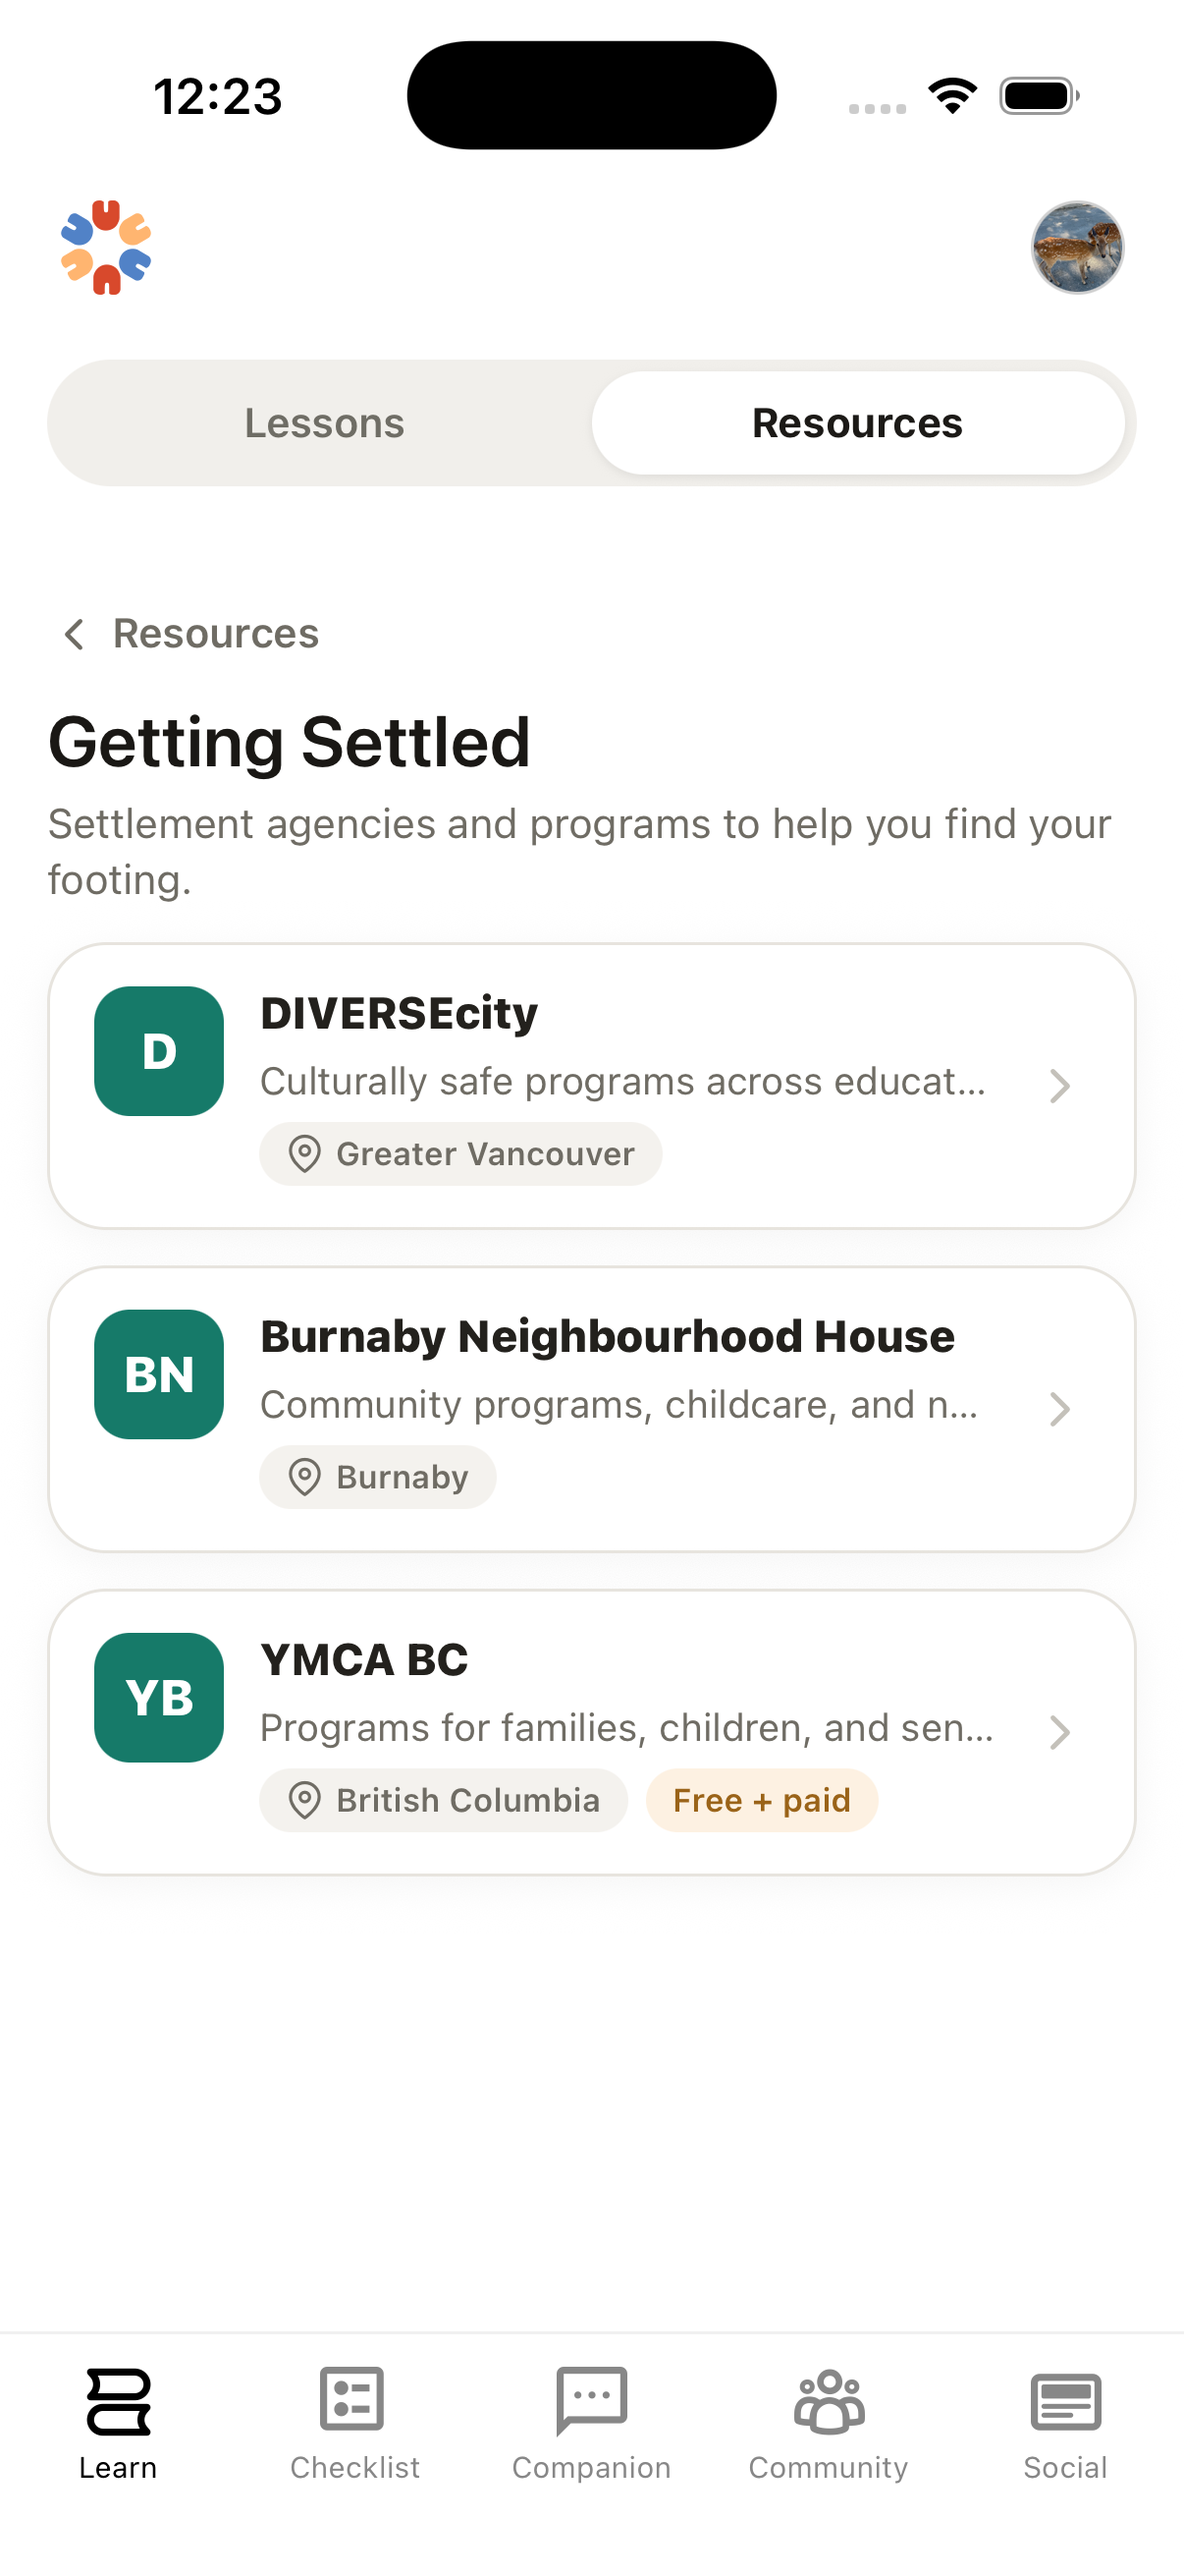
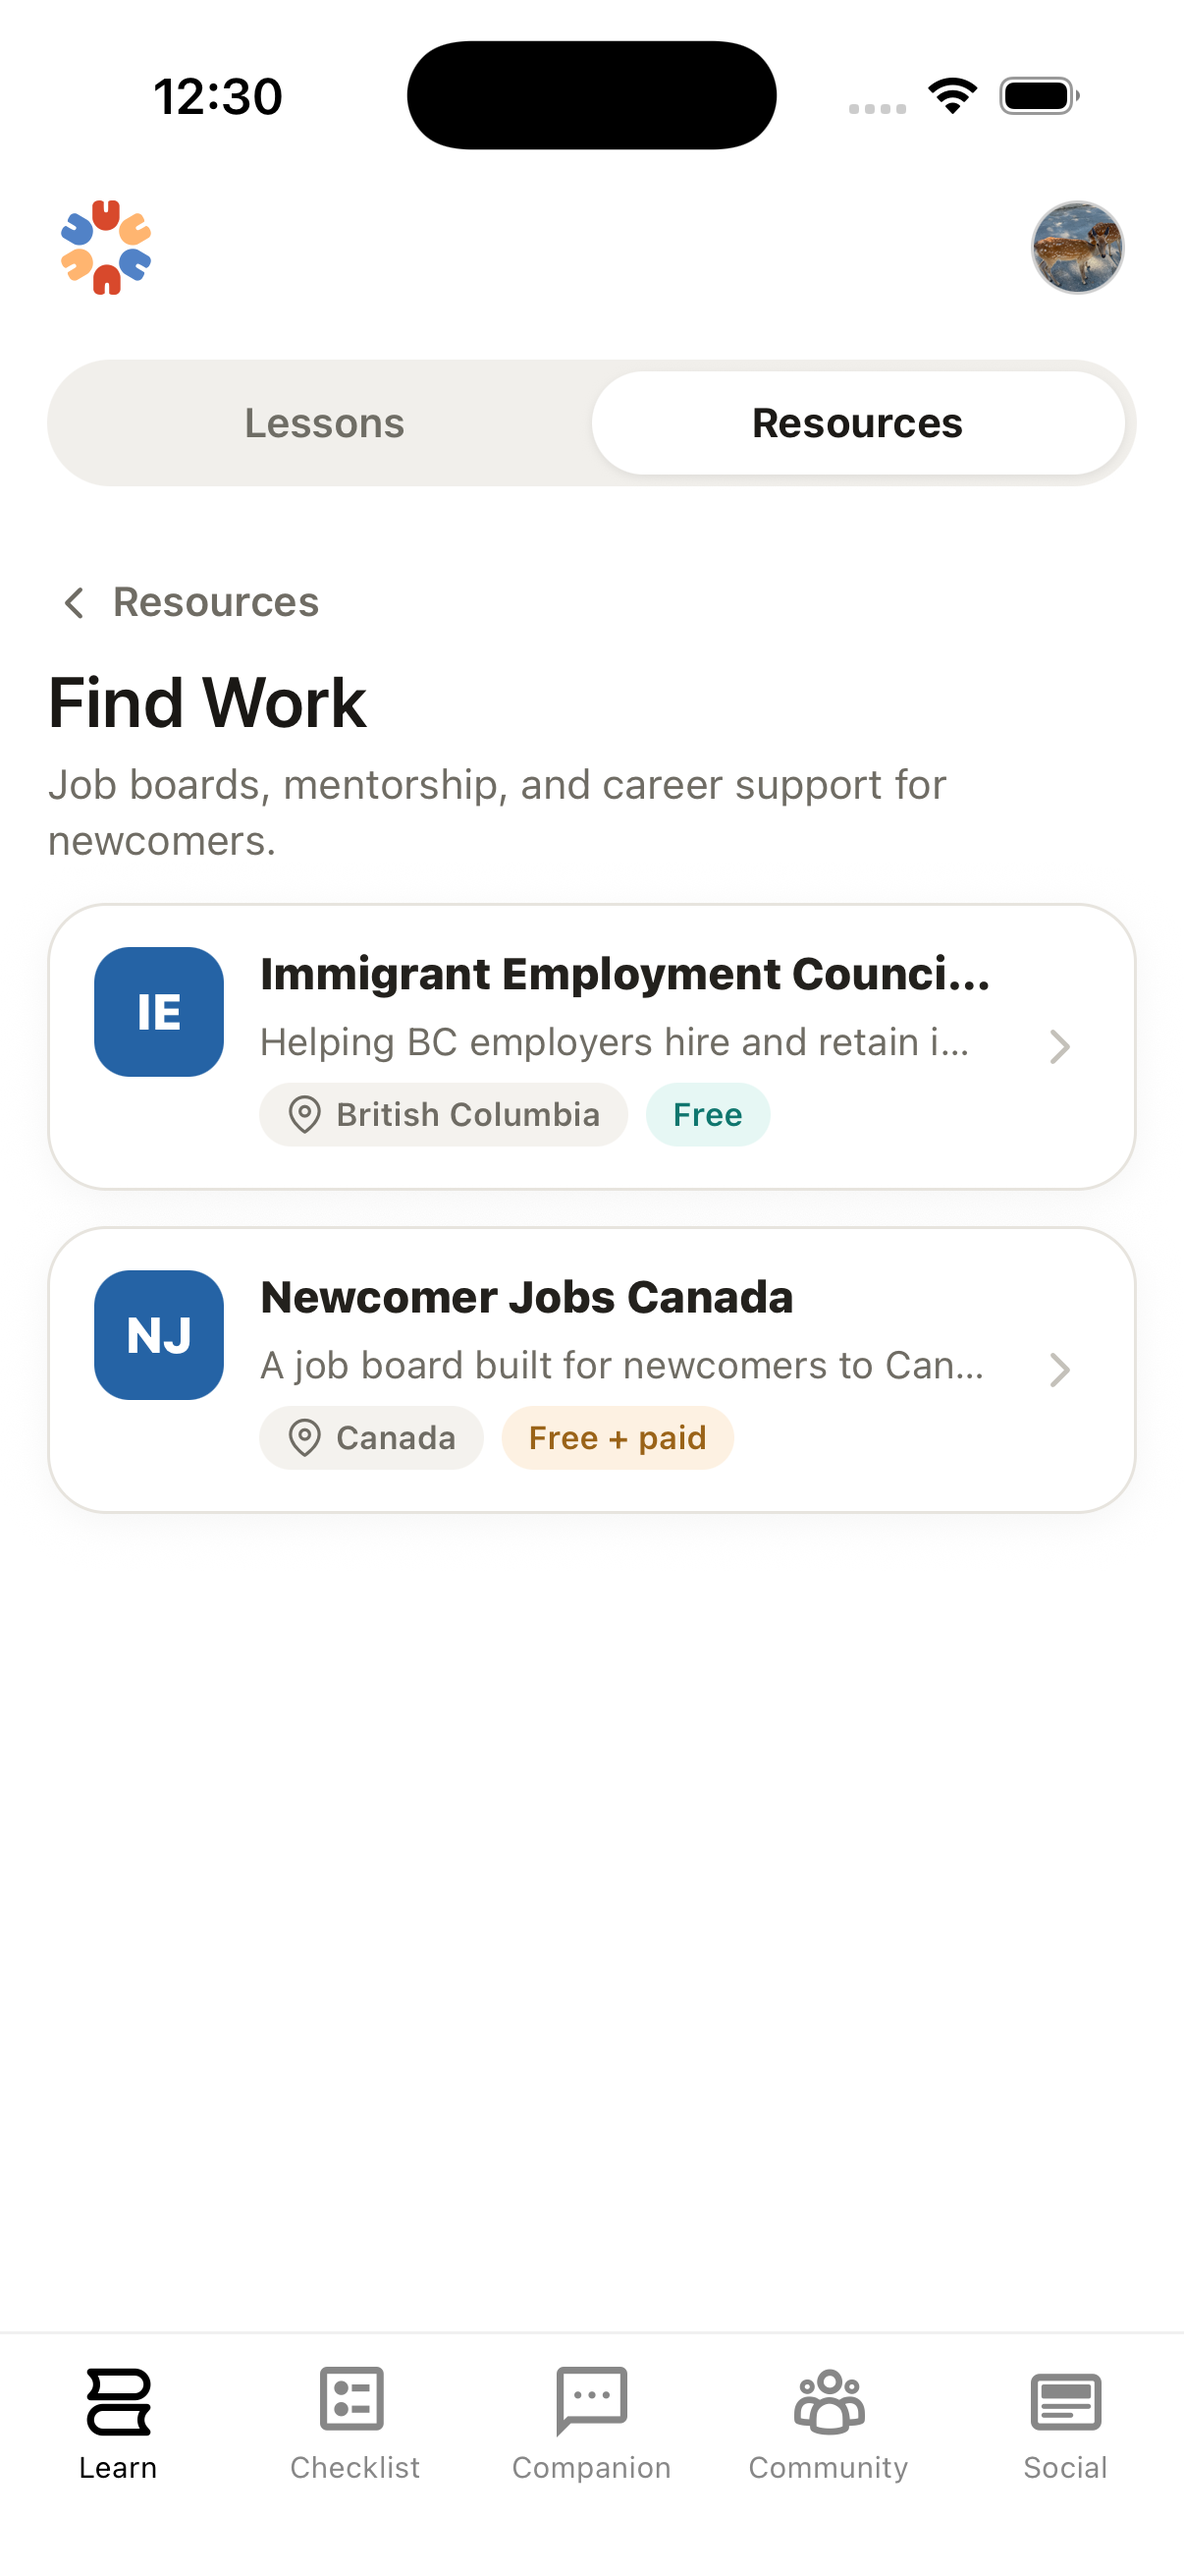
style(resources): close the gap above the category back nav
The back row carried minHeight 44 for its touch target, which centred the
label and left ~14pt of dead space between the segmented control and "<
Resources". It now sizes to the label and reaches 44pt through hitSlop, the
way the landing screen's trust link does, so the label starts the same
distance below the control as the landing heading does.

Claude-Session: https://claude.ai/code/session_01GDgBGGfTjJj2G9atSJ7t6e

diff --git a/unify-front-end/components/learn/Resources/CategoryDetail.tsx b/unify-front-end/components/learn/Resources/CategoryDetail.tsx
@@ -32,7 +32,7 @@ export default function CategoryDetail({ category, onBack }: Props) {
         activeOpacity={0.7}
         accessibilityRole='button'
         accessibilityLabel={t('learn.resources.backToCategories')}
-        hitSlop={8}
+        hitSlop={{ top: 12, bottom: 12, left: 8, right: 8 }}
       >
         <Feather
           name='chevron-left'
@@ -72,9 +72,11 @@ const styles = StyleSheet.create({
     flexDirection: 'row',
     alignItems: 'center',
     alignSelf: 'flex-start',
-    // The 44pt touch target already leaves ~13pt under the label, which is
-    // the 12pt gap the spec draws between the back nav and the title.
-    minHeight: 44,
+    // Sized to the label and grown to 44pt with hitSlop, the same way the
+    // landing screen's trust link is. A 44pt minHeight would centre the label
+    // and drop ~14pt of dead space between it and the segmented control.
+    paddingVertical: 2,
+    marginBottom: 8,
   },
   backText: {
     fontSize: 14,

diff --git a/.design/decisions.md b/.design/decisions.md
@@ -140,3 +140,10 @@ results are where all three cost chips appear together.
 - The node draws real partner logos. No partner in `constants/Partners.ts` has a
   `logo`, so every card falls back to a monogram. That is an asset task, not a
   design one.
+
+**Correction after review (2026-08-30):** the back nav shipped with
+`minHeight: 44`, which centred its label and left ~14pt of dead space between the
+segmented control and the label — Savar flagged it on device. It now sizes to its
+label with `paddingVertical: 2` and reaches 44pt through `hitSlop`, the pattern
+the landing screen's trust link already uses. The label now starts the same
+distance below the segmented control as the landing heading does.

diff --git a/DESIGN.md b/DESIGN.md
@@ -117,8 +117,9 @@ a Feather equivalent.
 - Every `RESOURCE_THEME` foreground/background pair clears AA, enforced by test.
   Three swatches ship a step darker than Figma for this reason.
 - The segmented control is 37pt with `hitSlop` to clear 44pt.
-- The trust link is a `TouchableOpacity`, not a nested `Text onPress`, so its
-  target clears 44pt.
+- The trust link and the category-detail back nav are `TouchableOpacity` sized to
+  their label and grown to 44pt with `hitSlop`. A 44pt `minHeight` would centre
+  the label and leave dead space above it.
 - Heading carries `accessibilityRole='header'`; tiles announce label + count.
 
 ## Tokens and components
